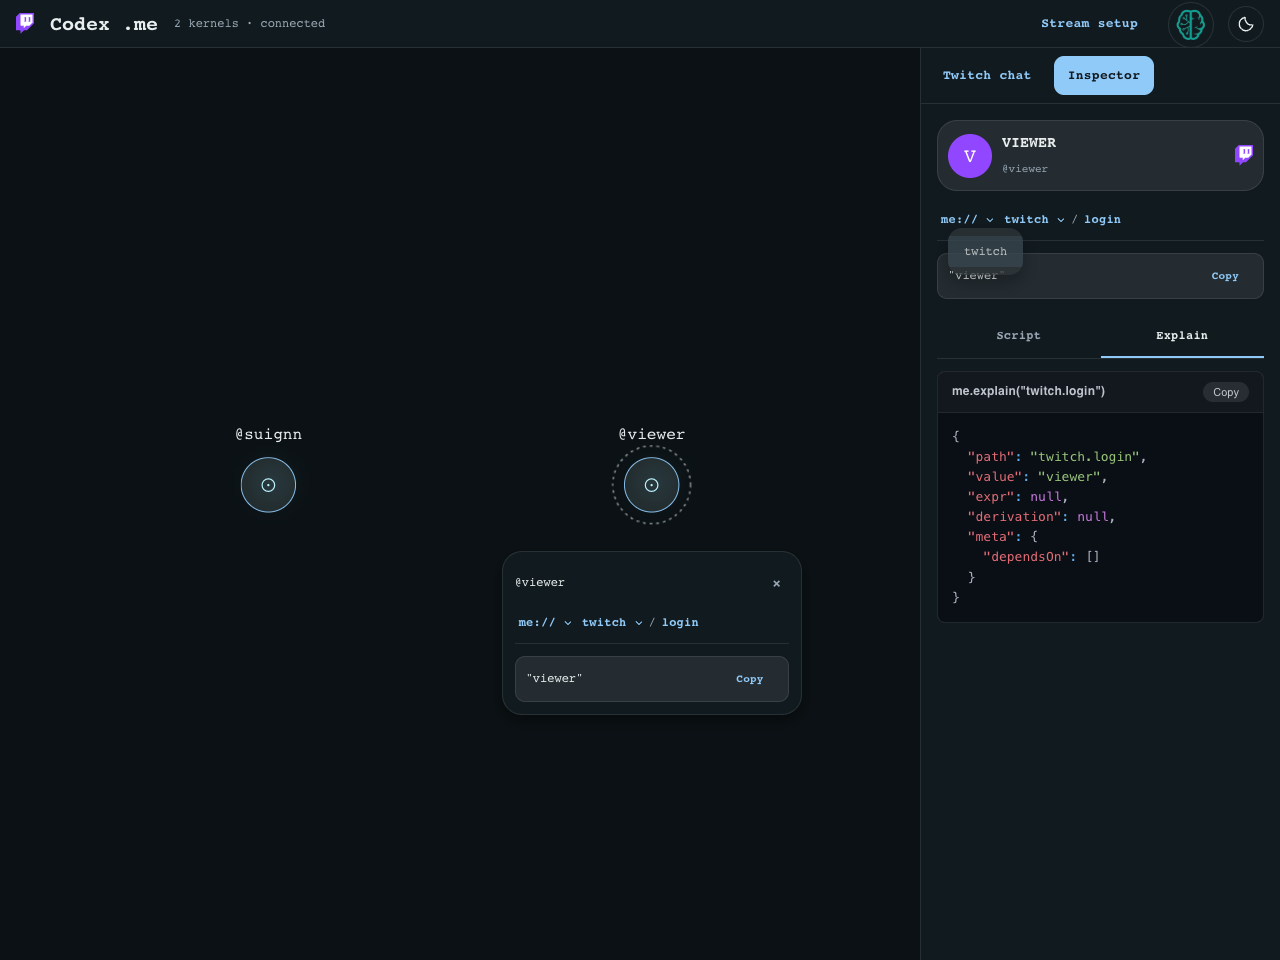
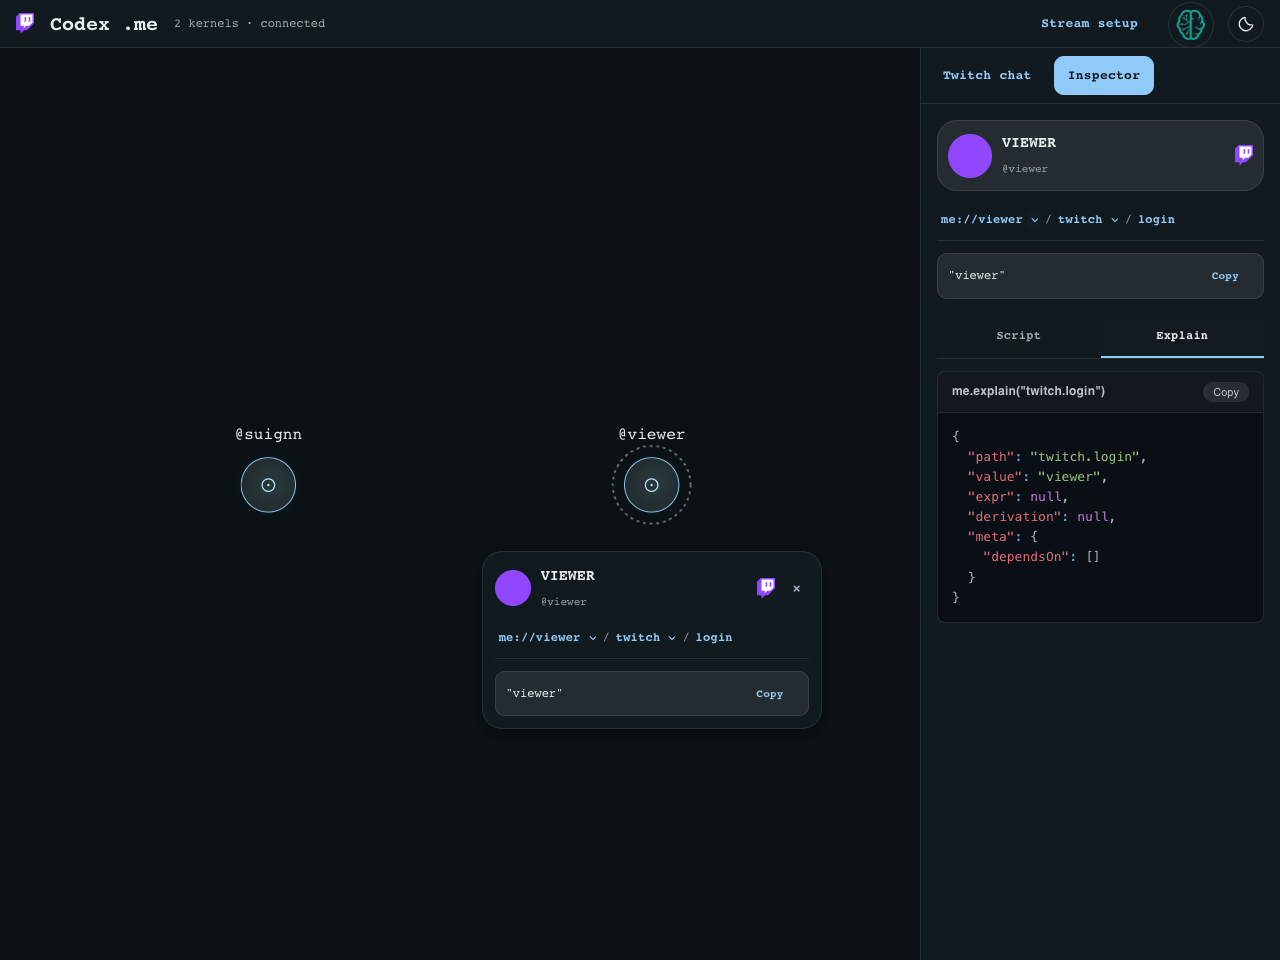
ui: show bubble profile photo and qualify paths with local user alias

diff --git a/overlay/spiders.js b/overlay/spiders.js
@@ -9,18 +9,19 @@ const transparent = new URLSearchParams(location.search).get('transparent') === 
 if (transparent) document.body.classList.add('transparent');
 else document.documentElement.classList.add('spiders-web');
 const mono = { fontFamily: '"IBM Plex Mono", ui-monospace, monospace' };
-function TwitchProfile({ kernel }) {
+function TwitchProfile({ kernel, compact = false, onClose }) {
   const values = Object.fromEntries((kernel.graph?.nodes || []).map(node => [node.path, node.value]));
   const login = values['twitch.login'] || kernel.owner;
   const name = values['twitch.displayName'] || login;
   const link = `https://www.twitch.tv/${encodeURIComponent(login)}`;
-  return h(Box, { 'data-twitch-profile': kernel.id, sx: { display: 'flex', alignItems: 'center', gap: 1.25, p: 1.25, mb: 2, border: 1, borderColor: 'divider', borderRadius: 2, bgcolor: 'action.hover' } },
-    h(Avatar, { src: values['twitch.profileImageUrl'] || undefined, alt: `${login}'s Twitch profile`, imgProps: { referrerPolicy: 'no-referrer' }, sx: { width: 44, height: 44, flexShrink: 0, bgcolor: '#9146ff', color: '#fff', ...mono } }, login.slice(0, 1).toUpperCase()),
+  return h(Box, { 'data-twitch-profile': kernel.id, sx: { display: 'flex', alignItems: 'center', gap: 1.25, p: compact ? 0 : 1.25, mb: compact ? 1.5 : 2, border: compact ? 0 : 1, borderColor: 'divider', borderRadius: 2, bgcolor: compact ? 'transparent' : 'action.hover' } },
+    h(Avatar, { 'data-profile-avatar': login, src: values['twitch.profileImageUrl'] || undefined, alt: `${login}'s Twitch profile`, imgProps: { referrerPolicy: 'no-referrer' }, sx: { width: compact ? 36 : 44, height: compact ? 36 : 44, flexShrink: 0, bgcolor: '#9146ff', color: '#fff', ...mono } }, login.slice(0, 1).toUpperCase()),
     h(Box, { sx: { flex: 1, minWidth: 0 } },
       h(Typography, { sx: { ...mono, fontSize: 15, fontWeight: 600, overflow: 'hidden', textOverflow: 'ellipsis', whiteSpace: 'nowrap' } }, name),
       h(Typography, { component: 'a', href: link, target: '_blank', rel: 'noopener noreferrer', sx: { ...mono, fontSize: 11, color: 'text.secondary', textDecoration: 'none', '&:hover': { color: 'primary.main', textDecoration: 'underline' } } }, `@${login}`)),
     h(Box, { component: 'a', href: link, target: '_blank', rel: 'noopener noreferrer', 'aria-label': `Open ${login} on Twitch`, sx: { display: 'flex', alignItems: 'center', flexShrink: 0 } },
-      h(Box, { component: 'img', src: '/ui/assets/twitch-glitch-purple.svg', alt: 'Twitch', sx: { width: 18, height: 21, display: 'block' } })));
+      h(Box, { component: 'img', src: '/ui/assets/twitch-glitch-purple.svg', alt: 'Twitch', sx: { width: 18, height: 21, display: 'block' } })),
+    onClose ? h(Button, { size: 'small', onClick: onClose, 'aria-label': 'Close bubble navigation', sx: { minWidth: 24, px: 0.5, color: 'text.secondary' } }, '×') : null);
 }
 function BubbleNavigation({ anchor, kernel, path, selectPath, onClose }) {
   const [position, setPosition] = React.useState(null);
@@ -28,7 +29,7 @@ function BubbleNavigation({ anchor, kernel, path, selectPath, onClose }) {
     const scene = anchor.closest('main');
     const update = () => {
       const bounds = scene.getBoundingClientRect(), bubble = anchor.getBoundingClientRect();
-      const width = Math.min(300, Math.max(0, bounds.width - 24));
+      const width = Math.min(340, Math.max(0, bounds.width - 24));
       const left = Math.max(12, Math.min(bounds.width - width - 12, bubble.x + bubble.width / 2 - bounds.x - width / 2));
       const below = bubble.bottom - bounds.top + 12;
       const top = below + 260 <= bounds.height ? below : Math.max(12, bubble.top - bounds.top - 272);
@@ -42,10 +43,8 @@ function BubbleNavigation({ anchor, kernel, path, selectPath, onClose }) {
   if (!position) return null;
   return h(Box, { 'data-bubble-navigation': kernel.id, role: 'region', 'aria-label': `Paths for @${kernel.owner}`, onKeyDown: event => { if (event.key === 'Escape') { event.stopPropagation(); onClose(); anchor.focus(); } },
     sx: { position: 'absolute', ...position, zIndex: 5, p: 1.5, overflowY: 'auto', bgcolor: 'background.paper', color: 'text.primary', border: 1, borderColor: 'divider', borderRadius: 2, boxShadow: 6 } },
-    h(Box, { sx: { display: 'flex', alignItems: 'center', justifyContent: 'space-between', gap: 1, mb: 1 } },
-      h(Typography, { sx: { ...mono, fontSize: 12, overflow: 'hidden', textOverflow: 'ellipsis' } }, `@${kernel.owner}`),
-      h(Button, { size: 'small', onClick: onClose, 'aria-label': 'Close bubble navigation', sx: { minWidth: 24, px: 0.5, color: 'text.secondary' } }, '×')),
-    h(KnowledgeGraph, { graph: kernel.graph, path, selectPath }),
+    h(TwitchProfile, { kernel, compact: true, onClose }),
+    h(KnowledgeGraph, { graph: kernel.graph, owner: kernel.owner, path, selectPath }),
     h(KernelOutput, { kernel, path, compact: true }));
 }
 function Kernel({ kernel, index, count, selected, onSelect, face }) {
@@ -115,7 +114,7 @@ function App() {
         h(Box, { sx: { display: panel === 'inspector' ? 'block' : 'none', p: 2, overflowY: 'auto', flex: 1, minHeight: 0 } },
           current ? h(React.Fragment, null,
             h(TwitchProfile, { kernel: current }),
-            h(KnowledgeGraph, { graph: current.graph, path, selectPath }),
+            h(KnowledgeGraph, { graph: current.graph, owner: current.owner, path, selectPath }),
             h(KernelConsole, { kernel: current, path }))
             : h(Typography, { role: 'status', 'data-inspector-empty': true, sx: { ...mono, fontSize: 14, color: 'text.secondary' } }, 'Select a node')))));
 }

diff --git a/overlay/kernel-graph.js b/overlay/kernel-graph.js
@@ -3,7 +3,7 @@ const R = window.React, h = R.createElement, G = window.GUI;
 const { Box, Typography, Button } = G.Atoms;
 const { Menu, MenuItem } = G.Molecules;
 const mono = { fontFamily: '"IBM Plex Mono", ui-monospace, monospace' };
-export function KnowledgeGraph({ graph, path, selectPath }) {
+export function KnowledgeGraph({ graph, owner = '', path, selectPath }) {
   const [menu, setMenu] = R.useState(null), bar = R.useRef(null);
   const nodes = graph?.nodes || [], parts = pathParts(path);
   R.useEffect(() => { if (bar.current) bar.current.scrollLeft = bar.current.scrollWidth; }, [path]);
@@ -19,11 +19,11 @@ export function KnowledgeGraph({ graph, path, selectPath }) {
         h('svg', { 'aria-hidden': true, width: 12, height: 12, viewBox: '0 0 12 12', fill: 'none', stroke: 'currentColor', strokeWidth: 1.4 }, h('path', { d: 'M3 4.5 6 7.5 9 4.5' }))) : null);
   };
   return h(Box, { 'data-knowledge-graph': true, sx: { minWidth: 0 } },
-    h(Box, { component: 'nav', ref: bar, 'aria-label': 'Kernel path', 'data-kernel-path': path,
+    h(Box, { component: 'nav', ref: bar, 'aria-label': 'Kernel path', 'data-kernel-path': path, 'data-kernel-owner': owner, 'data-me-address': `me://${owner}${path ? '/'+parts.join('/') : ''}`,
       sx: { display: 'flex', alignItems: 'center', flexWrap: 'nowrap', overflowX: 'auto', whiteSpace: 'nowrap', gap: 0.25, borderBottom: 1, borderColor: 'divider', pb: 1, mb: 1.5 } },
-      segment('', 'me://', true),
+      segment('', `me://${owner}`, true),
       ...parts.map((part, i) => h(R.Fragment, { key: joinPath(parts.slice(0, i + 1)) },
-        i ? h(Typography, { 'aria-hidden': true, sx: { ...mono, fontSize: 12, color: 'text.secondary', flexShrink: 0 } }, '/') : null,
+        i || owner ? h(Typography, { 'aria-hidden': true, sx: { ...mono, fontSize: 12, color: 'text.secondary', flexShrink: 0 } }, '/') : null,
         segment(joinPath(parts.slice(0, i + 1)), part)))),
     h(Menu, { anchorEl: menu?.anchor || null, open: !!menu, onClose: () => setMenu(null), MenuListProps: { 'aria-label': menu?.label || 'Path choices' } },
       pathChildren(nodes, menu?.parent || '').map(child => h(MenuItem, { key: child.path, selected: joinPath(parts.slice(0, pathParts(child.path).length)) === child.path,

diff --git a/README.md b/README.md
@@ -47,13 +47,13 @@ The grammar is an allowlist, never JavaScript evaluation. It does not permit cha
 
 Each kernel stores four real public Twitch profile fields under `twitch`: `id`, `login`, `displayName`, and `profileImageUrl`. The server imports them from [Get Users](https://dev.twitch.tv/docs/api/reference/#get-users), mapping Twitch's `display_name` and `profile_image_url` to camelCase paths. The verified channel bootstrap uses its Get Users response; a new viewer's `!me` resolves the trusted EventSub user ID through the same API. Profiles are snapshots at declaration, not continuous polling. Failed or mismatched lookups do not create placeholder profiles; the viewer can retry. Concurrent lookups share one bounded, 30-second cache entry per user. Only these public fields enter the kernel: no email, OAuth credentials, or private response fields.
 
-Graph nodes come from public `exportSnapshot().memories`; values are read through `me(path)`. Imported profile values are stored facts, so their actual `me.explain(path)` has no derivation. No rule or dependency edge is fabricated to make this API import look computed. The displayed script contains the exact field declarations used to build that kernel. The local `me://twitch` namespace is a kernel path backed by an API snapshot, not an arbitrary API proxy.
+Graph nodes come from public `exportSnapshot().memories`; values are read through `me(path)`. Imported profile values are stored facts, so their actual `me.explain(path)` has no derivation. No rule or dependency edge is fabricated to make this API import look computed. The displayed script contains the exact field declarations used to build that kernel. The local `me://<login>/twitch` display identifies a kernel path backed by an API snapshot, not an arbitrary API proxy. In the actual protocol, the authority is a namespace, not automatically a Twitch username: this demo uses the verified Twitch login as a session-local alias. Displaying that alias does not claim/register it in NRP or turn this breadcrumb into a protocol resolver.
 
 The selected kernel's profile header renders its real Twitch avatar, display name and linked login using GUI atoms; the existing Twitch Glitch asset marks the profile and web topbar. Missing avatars fall back to the login initial. These controls remain outside the transparent OBS scene.
 
-Clicking a web .me bubble opens an anchored path navigator built from the same GUI buttons/dropdowns as the inspector. The bubble panel also shows the selected leaf as the same compact, copyable output used by the inspector. Both surfaces share the selected kernel and path: changing either updates the other and the actual output/explain query without resetting the Script/Explain tab. Clicking the same bubble again or its close control hides the navigator while keeping the inspected path. The navigator follows scene resizing and completed bubble movement; it does not appear in the transparent OBS source.
+The bubble card repeats the real Twitch photo, display name and linked login. Both path bars identify the selected local kernel, for example `me://suignn/twitch/login`. Clicking a web .me bubble opens an anchored path navigator built from the same GUI buttons/dropdowns as the inspector. The bubble panel also shows the selected leaf as the same compact, copyable output used by the inspector. Both surfaces share the selected kernel and path: changing either updates the other and the actual output/explain query without resetting the Script/Explain tab. Clicking the same bubble again or its close control hides the navigator while keeping the inspected path. The navigator follows scene resizing and completed bubble movement; it does not appear in the transparent OBS source.
 
-Both navigators use one continuous path bar. Clicking a segment returns to that ancestor; its adjacent dropdown lists its direct children. To choose a sibling, open the shared parent's dropdown. For example, the menu after `twitch` contains `id`, `login`, `displayName` and `profileImageUrl`, while a leaf has no child arrow. The root menu contains the actual root namespaces. Short names and value previews stay inside dropdowns, with no separate child list or “Select a path” prompt. The bar stays on one line, scrolling horizontally for long paths. Branches remain UI groups derived from memory paths, not invented facts or namespace-read APIs. The local `me://` breadcrumb does not perform a remote-address operation. Below the selected path, the value is always visible as a compact, single-line JSON code display with a Copy button and no separate Output heading. It automatically reads `me(path)` from the existing server kernel. Under it, **Script / Explain** tabs show the construction source or the actual `me.explain(path)` JSON, including expression, derivation and metadata from this.me 4.2.1. The selected tab is preserved while navigating paths or switching kernels. Query results follow the current selection, with obsolete requests cancelled and old-path results hidden. Script is initially selected; arrow keys and Home/End navigate the tabs. Both views use GUI's native syntax highlighting. No construction script is re-executed and no editable code or eval is accepted. The object inspector is separate from GUI's general semantic/interface inspector and browser DOM developer tools. Selecting graph nodes only reads state; it does not execute or rewrite scripts. Face following changes presentation only and does not invent kernel facts or explanation results.
+Both navigators use one continuous path bar. Clicking a segment returns to that ancestor; its adjacent dropdown lists its direct children. To choose a sibling, open the shared parent's dropdown. For example, the menu after `twitch` contains `id`, `login`, `displayName` and `profileImageUrl`, while a leaf has no child arrow. The root menu contains the actual root memory branches. Short names and value previews stay inside dropdowns, with no separate child list or “Select a path” prompt. The bar stays on one line, scrolling horizontally for long paths. Branches remain UI groups derived from memory paths, not invented facts or namespace-read APIs. The local `me://` breadcrumb does not perform a remote-address operation. Below the selected path, the value is always visible as a compact, single-line JSON code display with a Copy button and no separate Output heading. It automatically reads `me(path)` from the existing server kernel. Under it, **Script / Explain** tabs show the construction source or the actual `me.explain(path)` JSON, including expression, derivation and metadata from this.me 4.2.1. The selected tab is preserved while navigating paths or switching kernels. Query results follow the current selection, with obsolete requests cancelled and old-path results hidden. Script is initially selected; arrow keys and Home/End navigate the tabs. Both views use GUI's native syntax highlighting. No construction script is re-executed and no editable code or eval is accepted. The object inspector is separate from GUI's general semantic/interface inspector and browser DOM developer tools. Selecting graph nodes only reads state; it does not execute or rewrite scripts. Face following changes presentation only and does not invent kernel facts or explanation results.
 
 ## Chat, web and OBS
 

diff --git a/evidence/SESSION.md b/evidence/SESSION.md
@@ -393,3 +393,12 @@ The existing offline integration check passed with assertions for absent labels 
 The owner requested one fluid navigation line instead of root, a separate child row and Select a path. Replaced the separate children list with a consistent breadcrumb: segment labels navigate to ancestors; adjacent arrows list that segment's direct children; siblings are chosen from their shared parent's menu. Root offers actual root branches and leaves have no child arrow. Menus contain short names and compact real value previews. Long paths scroll horizontally instead of wrapping. Removed Select a path and hide output until an actual leaf is selected; no namespace object is fabricated. Both bubble and inspector reuse the same component/state, preserving Script/Explain.
 
 The existing offline integration check passed after adapting navigation coverage to parent dropdowns, root menus, absence of child lists/prompts, actual value/explain results and synchronized surfaces. Live-browser verification traversed root → twitch → displayName through bubble dropdowns and observed matching path/value/explanation in the inspector. Screenshot: evidence/kernels/fluid-path.png. No backend changes, server restart, real chat or OBS changes.
+
+
+### 2026-10-28 — bubble profile photo and named local me:// root
+
+Added the same real Twitch Avatar/display name/linked login/logo to the bubble card, using a compact version of the existing profile component. Both path navigators now identify the selected user's local kernel, e.g. me://suignn/twitch/login, and update that name when switching users. Increased the bubble panel's preferred width to 340px, still clamped to the scene, to fit the named one-line path and photo.
+
+Checked this.gui 4.2.1 local NRPExpression.d.ts: canonical URI authority is a namespace, not an automatic Twitch account/ownership claim. Explained to the owner that the verified Twitch login is a demo-local alias; no namespace registration, claim, NRP resolution or underlying protocol/kernel changes were made. The graph/query path remains twitch.login; the displayed owner qualifies which local kernel it belongs to.
+
+The existing offline kernel check passed, including bubble Avatar markup, me://suignn root, and switching to me://viewer/twitch/login on both surfaces without stale values. Live-browser verification confirmed both real 300px profile images loaded and the named path/output/Explain remained synchronized. Screenshot: evidence/kernels/named-bubble-profile.png. No server restart or real chat messages.
